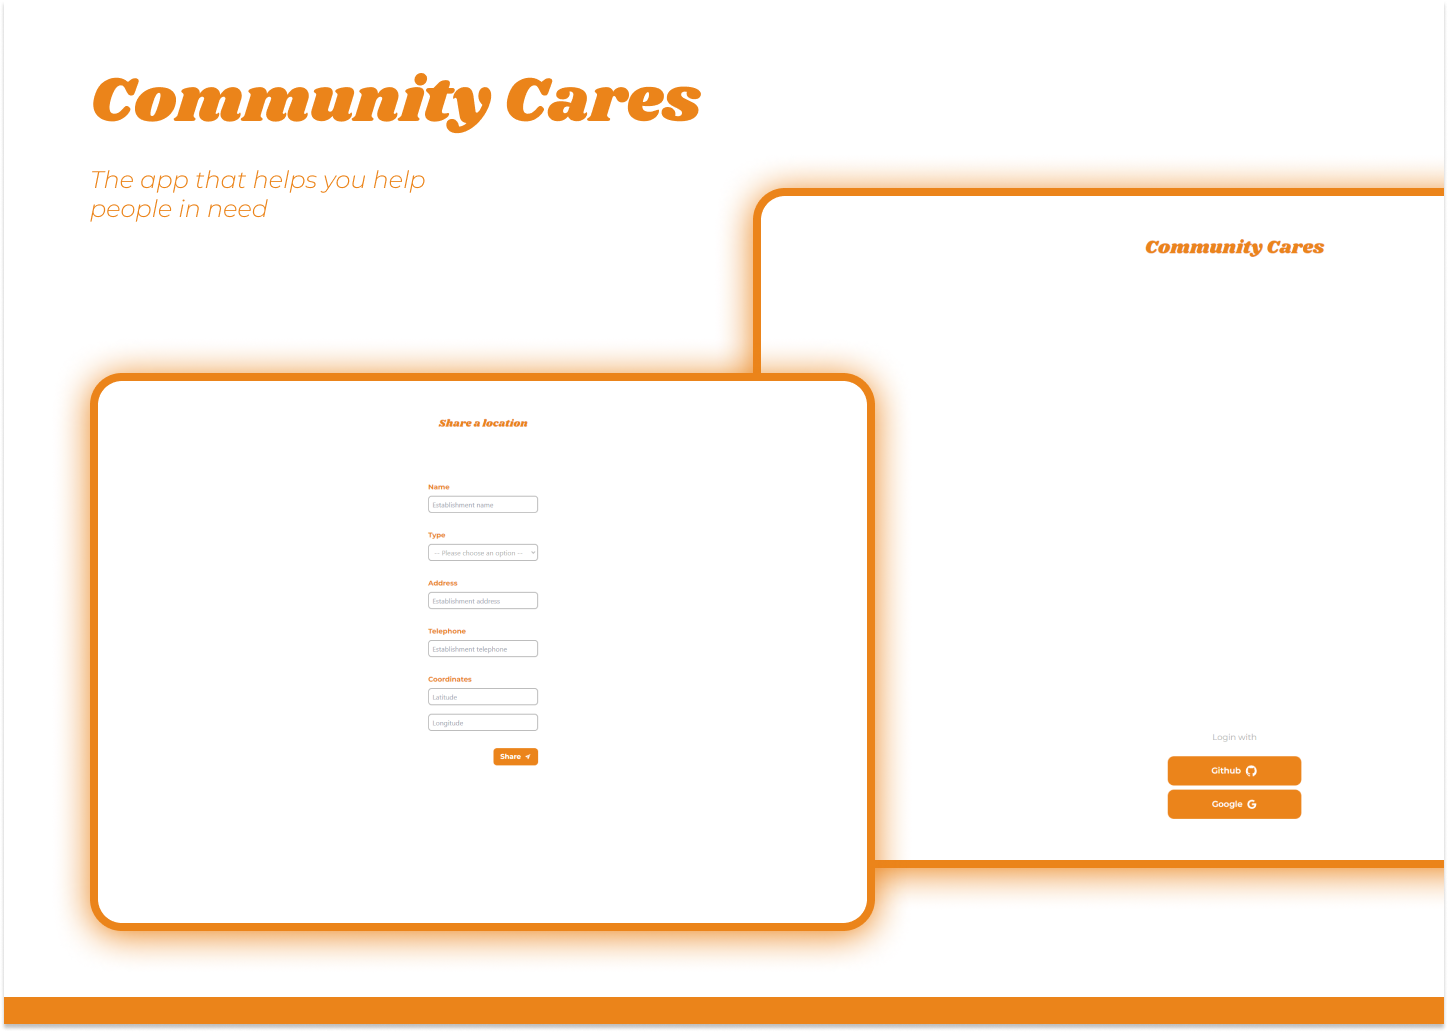
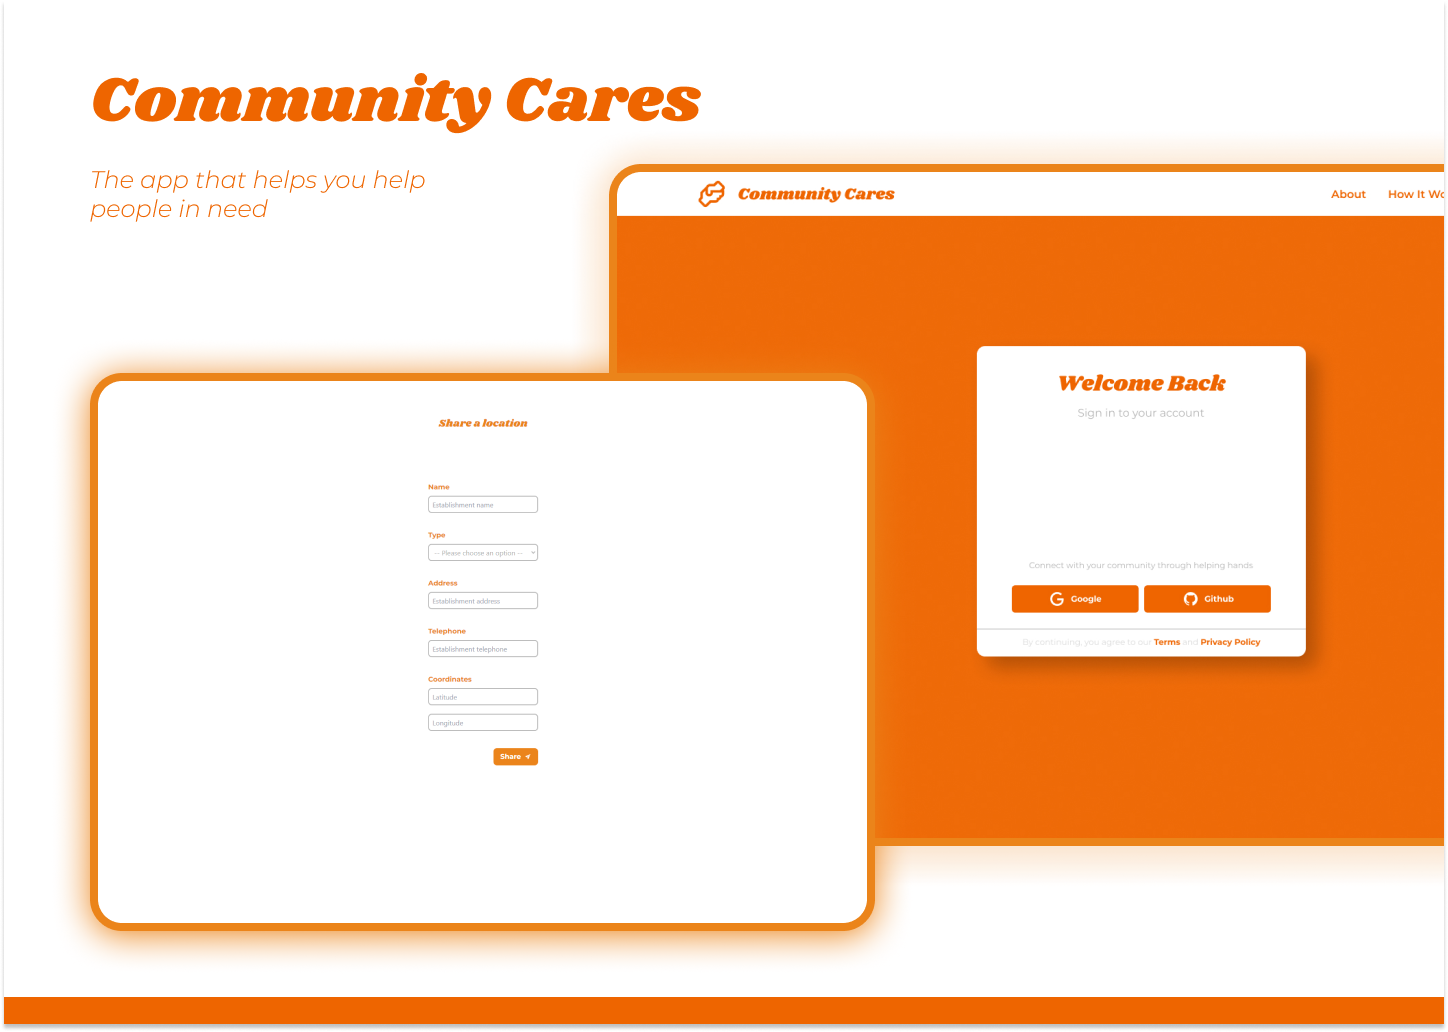
feat: add centralized login card layout using semantic HTML and Tailwind CSS
- Implemented a centralized login card using <main> and <section> tags for semantic structure
- Applied Tailwind CSS classes for responsive centering and card styling
- Ensured accessibility and modern UI best practices for the login experience

Changed region(s): [[0.0622, 0.062, 1.0, 0.8682], [0.0, 0.9612, 1.0, 0.9922]]

diff --git a/src/app/page.tsx b/src/app/page.tsx
@@ -1,26 +1,35 @@
+import { Suspense } from "react";
+import { GoogleOAuthProvider } from "@react-oauth/google";
 import { GitHubButtonComponent } from "@/components/Button/GitHubButtonComponent";
 import { GoogleButtonComponent } from "@/components/Button/GoogleButtonComponent";
-import { GoogleOAuthProvider } from "@react-oauth/google";
-import { Suspense } from "react";
 
 export default function Home() {
   return (
-    <main className="flex min-h-screen flex-col items-center justify-between p-24 bg-white">
-      <h1 className="text-orange text-4xl">Community Cares</h1>
-      <section className="mt-auto text-center flex flex-col items-center">
-        <p className="text-gray mb-6">Login with</p>
-        <Suspense fallback={<Loading />}>
-          <GitHubButtonComponent />
-          <GoogleOAuthProvider
-            clientId={
-              process.env.NEXT_PUBLIC_GOOGLE_CLIENT_ID
-                ? process.env.NEXT_PUBLIC_GOOGLE_CLIENT_ID
-                : ""
-            }
-          >
-            <GoogleButtonComponent />
-          </GoogleOAuthProvider>
-        </Suspense>
+    <main className="flex min-h-screen flex-col items-center justify-between p-24 bg-darkOrange">
+      <section className="text-center flex flex-col items-center bg-white min-w-96 min-h-96 rounded-xl shadow-lg p-8 mt-auto mb-auto drop-shadow-lg/25">
+        <h1 className="font-shrikhand text-4xl mb-2 text-darkOrange">
+          Welcome Back
+        </h1>
+        <span className="font-paragraph text-base text-gray mb-52">Sign in to your account</span>
+        
+        <div>
+          <span className="font-paragraph text-base text-gray">Connect with your community through helping hands</span>
+          <Suspense fallback={<Loading />}>
+            <div className="flex gap-4 mt-6">
+              <GitHubButtonComponent />
+              <GoogleOAuthProvider
+                clientId={
+                  process.env.NEXT_PUBLIC_GOOGLE_CLIENT_ID
+                    ? process.env.NEXT_PUBLIC_GOOGLE_CLIENT_ID
+                    : ""
+                }
+              >
+                <GoogleButtonComponent />
+              </GoogleOAuthProvider>
+            </div>
+          </Suspense>
+          <p className="font-paragraph text-gray mt-8 text-base">By continuing, you agree to our <strong className="font-paragraph text-darkOrange text-base font-bold">Terms</strong> and <strong className="font-paragraph text-darkOrange text-base font-bold">Privacy Policy</strong></p>
+        </div>
       </section>
     </main>
   );
@@ -29,3 +38,4 @@ export default function Home() {
 function Loading() {
   return <p>Loading...</p>;
 }
+

diff --git a/src/app/layout.tsx b/src/app/layout.tsx
@@ -2,6 +2,7 @@ import type { Metadata } from "next";
 import { Montserrat, Shrikhand } from "next/font/google";
 import { Analytics } from "@vercel/analytics/react";
 import { SpeedInsights } from "@vercel/speed-insights/next";
+import { MdOutlineHandshake } from "react-icons/md";
 
 import "./globals.css";
 
@@ -26,8 +27,27 @@ export default function RootLayout({
   children: React.ReactNode;
 }>) {
   return (
-    <html lang="en" className="bg-white">
+    <html lang="en">
       <body className={`${montserrat.variable} ${shrikhand.variable}`}>
+        <header className="h-16 w-full bg-white justify-between items-center flex px-32">
+          <div className="flex items-center gap-4">
+            <MdOutlineHandshake size={40} color="" fill="#EE6A08" />
+            <h1 className="text-2xl font-heading text-darkOrange">Community Cares</h1>
+          </div>
+          <nav>
+            <ul className="flex items-center gap-8">
+              <li>
+                <a href="#" className="font-paragraph text-darkOrange text-base font-bold">About</a>
+              </li>
+              <li>
+                <a href="#" className="font-paragraph text-darkOrange text-base font-bold">How It Works</a>
+              </li>
+              <li>
+                <a href="#" className="font-paragraph text-darkOrange text-base font-bold">Testimonials</a>
+              </li>
+            </ul>
+          </nav>
+        </header>
         {children}
         <Analytics />
         <SpeedInsights />

diff --git a/src/components/Button/GitHubButtonComponent.tsx b/src/components/Button/GitHubButtonComponent.tsx
@@ -49,7 +49,7 @@ export function GitHubButtonComponent() {
   return (
     <>
       <button
-        className="rounded-xl gap-2 bg-orange flex items-center justify-center p-4 w-64"
+        className="rounded-xl gap-2 bg-darkOrange flex items-center justify-center p-4 w-64"
         type="button"
         onClick={async () => {
           router.push(

diff --git a/src/components/Button/GoogleButtonComponent.tsx b/src/components/Button/GoogleButtonComponent.tsx
@@ -64,7 +64,7 @@ export function GoogleButtonComponent() {
   return (
     <>
       <button
-        className="rounded-xl gap-2 bg-orange flex items-center justify-center p-4 w-64 mt-2"
+        className="rounded-xl gap-2 bg-darkOrange flex items-center justify-center p-4 w-64"
         type="button"
         onClick={() => handleLogin()}
       >

diff --git a/src/components/Button/GitHubButtonComponent.test.tsx b/src/components/Button/GitHubButtonComponent.test.tsx
@@ -7,6 +7,5 @@ describe("Authorization component", () => {
   test("if the component render as expected", () => {
     render(<GitHubButtonComponent />);
   });
- screen.debug()
   expect(screen.getByRole("button")).toHaveTextContent("Github");
 });

diff --git a/tailwind.config.ts b/tailwind.config.ts
@@ -15,10 +15,12 @@ const config: Config = {
       },
       colors: {
         orange: "#EB841A",
+        darkOrange: "#EE6A08",
         gray: "#B3B3B3",
       },
     },
   },
   plugins: [],
 };
+
 export default config;

diff --git a/README.md b/README.md
@@ -3,7 +3,6 @@
 **👨💻 Tecnologias / Technologies**
 
 Esse projeto foi desenvolvido com as seguintes tecnologias / This project was developed with the following technologies:
-
 - [Typescript](https://www.typescriptlang.org/)
 - [Axios](https://axios-http.com/)
 - [Vitest](https://vitest.dev/)
@@ -15,18 +14,55 @@ Esse projeto foi desenvolvido com as seguintes tecnologias / This project was de
 
 -----------------------------------------------------------------------------------------------------------------------------------------------------------------------------------
 
+**✨ Funcionalidades / Features**
+
+- Mapa e lista de pontos de doação de alimentos gratuitos / Map and list of free giveaway food locations
+- Busca e filtros por endereço, categoria e horário / Search and filters by address, category, and hours
+- Formulários com validação (Zod + React Hook Form) / Forms with validation (Zod + React Hook Form)
+- UI responsiva com Tailwind CSS / Responsive UI with Tailwind CSS
+- Integração com API usando Axios / API integration with Axios
+- Testes de unidade e componentes (Vitest + Testing Library) / Unit and component tests (Vitest + Testing Library)
+- Boas práticas de acessibilidade / Accessibility best practices
+
+-----------------------------------------------------------------------------------------------------------------------------------------------------------------------------------
+
 **💻 Projeto / Project**
 
-Community Cares is an app that helps people find free giveaway food locations to help people in need 🧡
+Community Cares é um app que conecta pessoas a pontos de doação de alimentos gratuitos, com mapa interativo, filtros por endereço/categoria/horário e foco em acessibilidade. Encontre ajuda perto de você ou divulgue um ponto para ampliar o impacto. 🧡
+
+Community Cares is an app that connects people to free food giveaway locations with an interactive map, filters by address/category/hours, and an accessibility-first experience. Find help nearby or share a location to amplify the impact. 🧡
 
 -----------------------------------------------------------------------------------------------------------------------------------------------------------------------------------
 
 **🚀 Como executar / How to run**
 
-- Clone o repositório / Clone the repository 
+Pré-requisitos / Prerequisites:
+- Node.js LTS + npm, ou Docker (Desktop/Engine) / Node.js LTS + npm, or Docker (Desktop/Engine)
+- VS Code (opcional) + extensão Dev Containers / VS Code (optional) + Dev Containers extension
 
-- Instale as dependências com `npm i` / Install the dependencies with `npm i`
+Ambiente local (Node) / Local environment (Node):
+- Clone o repositório / Clone the repository
+- Instale as dependências com `npm i` / Install dependencies with `npm i`
+- (Opcional) Crie um `.env.local` com suas variáveis de ambiente / (Optional) Create `.env.local` with your environment variables
 - Inicie o servidor com `npm run dev` / Start the server with `npm run dev`
+- Abra http://localhost:3000 / Open http://localhost:3000
+
+Docker (sem Dev Containers) / Docker (without Dev Containers):
+- Gere um arquivo `.env.local` se necessário / Create `.env.local` if needed
+- Construa a imagem: `docker build -t community-cares-web .`
+- Rode o container: `docker run --rm -p 3000:3000 --env-file .env.local community-cares-web`
+- Abra http://localhost:3000 / Open http://localhost:3000
+
+VS Code Dev Containers:
+- Instale Docker e a extensão “Dev Containers” no VS Code / Install Docker and the “Dev Containers” extension in VS Code
+- Abra a pasta no VS Code e escolha “Reopen in Container” / Open the folder in VS Code and choose “Reopen in Container”
+- O VS Code irá construir e iniciar o container de desenvolvimento / VS Code will build and start the dev container
+- Guia detalhado / Detailed guide: https://matheus-docs.notion.site/Leveraging-Docker-VS-Code-Dev-Containers-during-local-development-8b43483454574dceb23f0b0dba0505fc
+
+Scripts úteis / Useful scripts:
+- Testes / Tests: `npm test` ou `npm run test`
+- Lint: `npm run lint`
+- Build de produção / Production build: `npm run build` e `npm start`
 
 -----------------------------------------------------------------------------------------------------------------------------------------------------------------------------------
 
